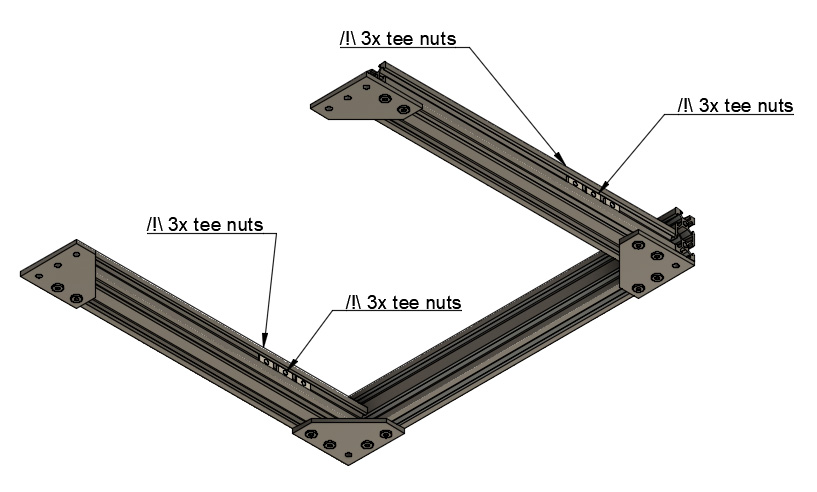
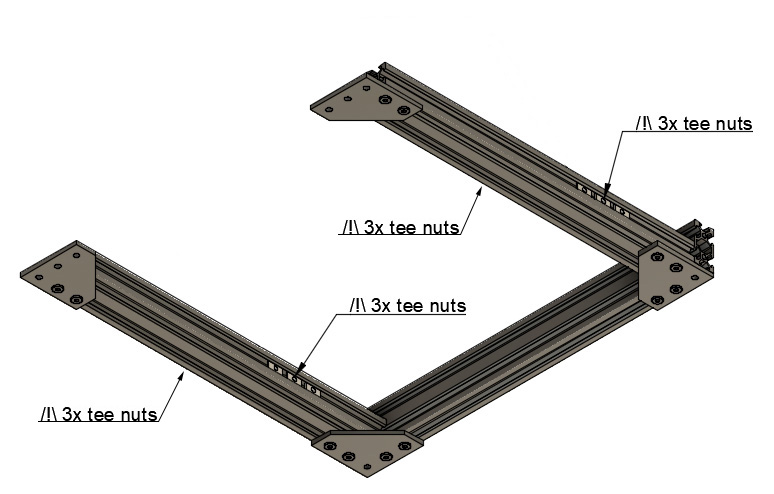
Update step 01 and the associated figure 1.4 to clarify the proper location of the three tee nuts.

diff --git a/full_upgrade/for_mk2.5/manual/assembly_instructions/step01.md b/full_upgrade/for_mk2.5/manual/assembly_instructions/step01.md
@@ -17,7 +17,7 @@
 1. If you did not get your 90° joining plates from RatRig, file sharp edges on the diagonal of 90° joining plates (figure 1.1). A small chamfer is enough, this just to avoid scratching cables and it will be useful for the next step as well
 1. Assemble 90° joining plates to the two 311mm v-slots as seen on figure 1.2 (with 8x M5x10 screws and 8x tee nuts). Do not tighten M5 screws yet
 1. Add 1x 370mm v-slot vertically as seen on figure 1.3 (with 4x M5x10 screws and 4x tee nuts). Do not tighten M5 screws yet
-1. Add 3 tee nuts on each side of the 311mm v-slots (12x tee nuts in total) as seen on figure 1.4
+1. Add 3 tee nuts on opposing sides of each of the 331mm v-slots (12x tee nuts in total) as seen on figure 1.4. The tee nuts go in the slots perpendicular to those to which the joining plates are attached. We will use these tee nuts later to attach the joining plates that hold the z-axis v-slots.
 
 
 ![](img/file_90deg_plate.jpg)\

diff --git a/full_upgrade/for_mk2_mk2s/manual/assembly_instructions/step01.md b/full_upgrade/for_mk2_mk2s/manual/assembly_instructions/step01.md
@@ -17,7 +17,7 @@
 1. If you did not get your 90° joining plates from RatRig, file sharp edges on the diagonal of 90° joining plates (figure 1.1). A small chamfer is enough, this just to avoid scratching cables and it will be useful for the next step as well
 1. Assemble 90° joining plates to the two 311mm v-slots as seen on figure 1.2 (with 8x M5x10 screws and 8x tee nuts). Do not tighten M5 screws yet
 1. Add 1x 370mm v-slot vertically as seen on figure 1.3 (with 4x M5x10 screws and 4x tee nuts). Do not tighten M5 screws yet
-1. Add 3 tee nuts on each side of the 311mm v-slots (12x tee nuts in total) as seen on figure 1.4
+1. Add 3 tee nuts on opposing sides of each of the 331mm v-slots (12x tee nuts in total) as seen on figure 1.4. The tee nuts go in the slots perpendicular to those to which the joining plates are attached. We will use these tee nuts later to attach the joining plates that hold the z-axis v-slots.
 
 
 ![](img/file_90deg_plate.jpg)\

diff --git a/full_upgrade/for_mk3/manual/assembly_instructions/step01.md b/full_upgrade/for_mk3/manual/assembly_instructions/step01.md
@@ -17,7 +17,7 @@
 1. If you did not get your 90° joining plates from RatRig, file sharp edges on the diagonal of 90° joining plates (figure 1.1). A small chamfer is enough, this just to avoid scratching cables and it will be useful for the next step as well
 1. Assemble 90° joining plates to the two 331mm v-slots as seen on figure 1.2 (with 8x M5x10 screws and 8x tee nuts). Do not tighten M5 screws yet
 1. Add 1x 370mm v-slot vertically as seen on figure 1.3 (with 4x M5x10 screws and 4x tee nuts). Do not tighten M5 screws yet
-1. Add 3 tee nuts on each side of the 331mm v-slots (12x tee nuts in total) as seen on figure 1.4
+1. Add 3 tee nuts on opposing sides of each of the 331mm v-slots (12x tee nuts in total) as seen on figure 1.4. The tee nuts go in the slots perpendicular to those to which the joining plates are attached. We will use these tee nuts later to attach the joining plates that hold the z-axis v-slots.
 
 
 ![](img/file_90deg_plate.jpg)\
